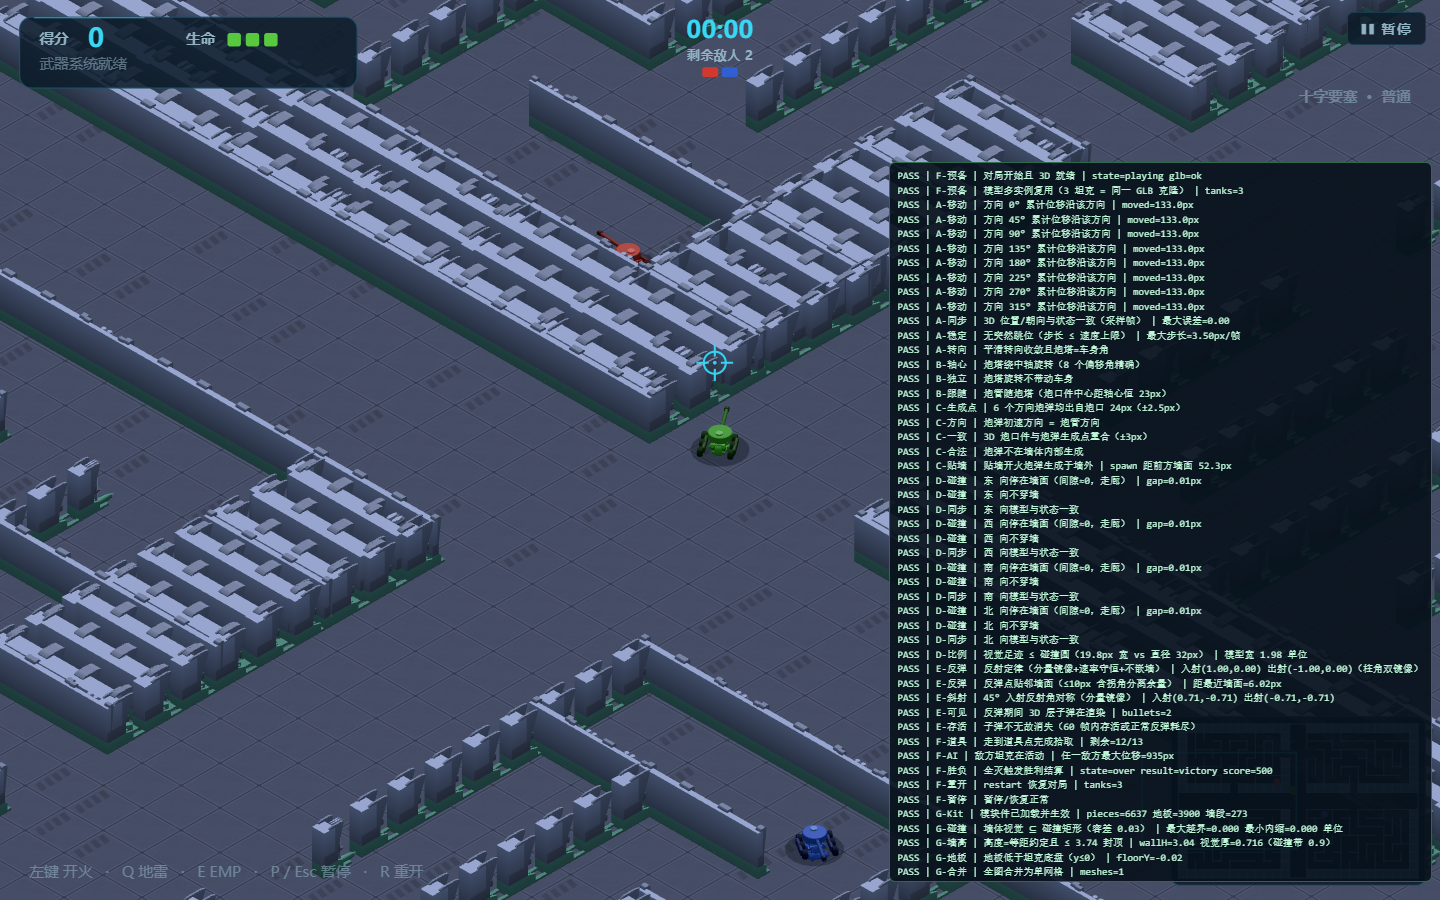
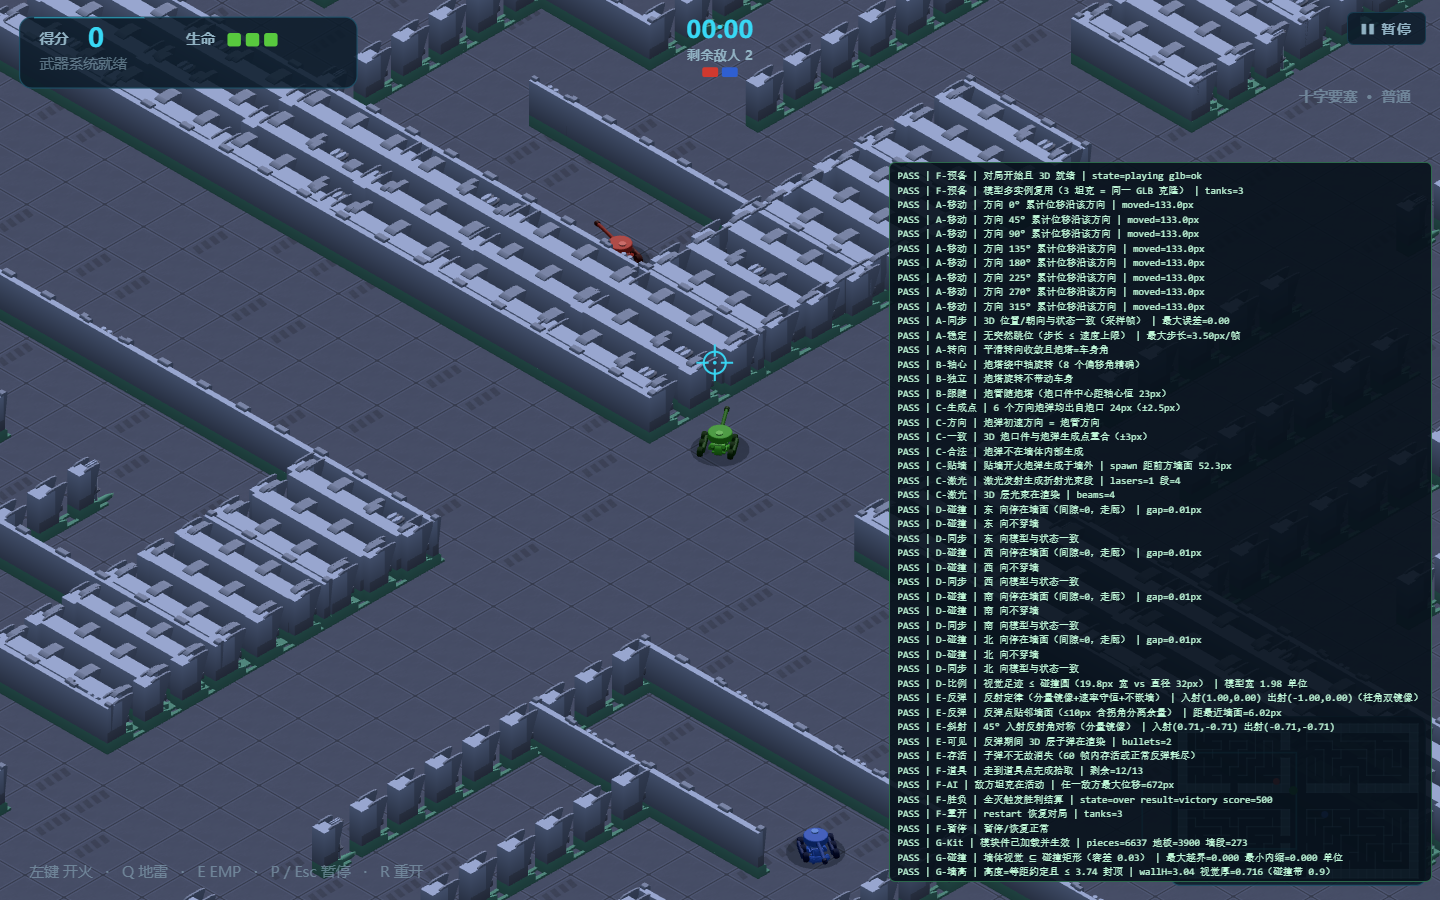
修复：激光道具无激光效果（用户实测反馈）——光束字段名对齐 + 命中端点闪光
根因：pickup.js Laser.segments 字段为 {x1,y1,x2,y2}，3D 渲染层误读 {x0,y0,x1,y1}
→ 全 undefined → 光束坐标 NaN 整条不可见。阶段 3 编写后从未实跑激光（验收摆位
甚至特意避开激光道具），故一直未暴露。

修复：字段对齐；光束加粗（0.34 单位）+ AdditiveBlending 发光质感；
每段终点新增命中闪光球（墙弹点/坦克命中反馈，随 life 淡出）。

防回归：C-激光 断言（发射生成折射段 + 3D 层渲染计数 report.lasers）；
新增 laser 摆位截图（integration-laser.png）。
验收：8 摆位（含 laser）+ 13/13 rollout + 69/69 + proto 3/3 全绿；
视觉核验：青蓝光束自炮口射出、末端命中闪光、无异常。

Changed region(s): [[0.6562, 0.5289, 1.0, 0.9956], [0.5312, 0.9022, 0.5938, 0.9644], [0.4062, 0.2489, 0.4375, 0.28]]

diff --git a/js/three-proto.js b/js/three-proto.js
@@ -433,8 +433,14 @@ import * as BufferGeometryUtils from 'three/addons/utils/BufferGeometryUtils.js'
       return m;
     });
     const laserPool = makePool(() => new THREE.Mesh(
-      new THREE.BoxGeometry(0.24, 0.24, 1),
-      new THREE.MeshBasicMaterial({ color: 0x5fd0ff, transparent: true, depthWrite: false })));
+      new THREE.BoxGeometry(0.34, 0.34, 1),
+      new THREE.MeshBasicMaterial({ color: 0x5fd0ff, transparent: true, depthWrite: false,
+        blending: THREE.AdditiveBlending })));
+    /* 激光端点命中闪光（墙弹点/坦克命中点反馈） */
+    const laserHitPool = makePool(() => new THREE.Mesh(
+      new THREE.SphereGeometry(0.42, 10, 8),
+      new THREE.MeshBasicMaterial({ color: 0x5fd0ff, transparent: true, depthWrite: false,
+        blending: THREE.AdditiveBlending })));
 
     /* 粒子：单个 Points 动态缓冲（数百粒子零 draw call 开销） */
     const MAX_P = 512;
@@ -690,23 +696,34 @@ import * as BufferGeometryUtils from 'three/addons/utils/BufferGeometryUtils.js'
         }
       }
 
-      /* 激光（分段光束，随 life 淡出） */
+      /* 激光：分段光束 + 端点命中闪光（字段名对齐 pickup.js 的 x1,y1,x2,y2），
+       * 随 life 淡出；命中坦克时 hitTank 有目标（伤害/爆炸由游戏逻辑走原特效管线） */
       laserPool.hideAll();
+      laserHitPool.hideAll();
+      let laserBeams = 0;
       if (!menu) {
         for (const ls of game.lasers) {
           const k = ls.life / ls.maxLife;
           for (const seg of ls.segments) {
+            const x0 = seg.x1 / PX, z0 = seg.y1 / PX, x1 = seg.x2 / PX, z1 = seg.y2 / PX;
+            const len = Math.hypot(x1 - x0, z1 - z0);
+            if (len < 0.01) continue;
             const m = laserPool.acquire();
-            const x0 = seg.x0 / PX, y0 = seg.y0 / PX, x1 = seg.x1 / PX, y1 = seg.y1 / PX;
-            const len = Math.hypot(x1 - x0, y1 - y0);
-            m.position.set((x0 + x1) / 2, 0.85, (y0 + y1) / 2);
+            m.position.set((x0 + x1) / 2, 0.85, (z0 + z1) / 2);
             m.scale.set(1, 1, len);
-            m.rotation.y = Math.atan2(x1 - x0, y1 - y0);
+            m.rotation.y = Math.atan2(x1 - x0, z1 - z0);
             m.material.color.set(ls.color);
             m.material.opacity = Math.min(1, k * 1.6);
+            const f = laserHitPool.acquire();
+            f.position.set(x1, 0.85, z1);
+            f.material.color.set(ls.color);
+            f.material.opacity = Math.min(1, k * 1.8);
+            f.scale.setScalar(0.55 + 0.5 * (1 - k));
+            laserBeams++;
           }
         }
       }
+      report.lasers = laserBeams;
 
       /* 特效（消费 game.effects 的世界坐标数据） */
       const fx = game.effects;

diff --git a/tests/integration-3d.page.js b/tests/integration-3d.page.js
@@ -271,6 +271,24 @@
           check('C-贴墙 | 贴墙开火炮弹生成于墙外（本图无贴墙点，跳过）', true, '');
         }
       }
+
+      /* ---------- C-激光：激光道具有可见光束（分段 + 命中端点） ---------- */
+      {
+        game.player.x = spot.x; game.player.y = spot.y; game.player.speed = 0;
+        game.player.angle = game.player.aimAngle = -0.35;
+        game.player.powerup = 'laser'; game.player.powerupShots = 1;
+        game.player.cooldown = 0;
+        game.bullets.length = 0; game.lasers.length = 0;
+        aimMouseAt(spot.x + Math.cos(-0.35) * 60, spot.y + Math.sin(-0.35) * 60);
+        game.update(1 / 60);
+        fireOne(-0.35);
+        game.render();
+        const segs = (game.lasers[0] && game.lasers[0].segments.length) || 0;
+        check('C-激光 | 激光发射生成折射光束段', game.lasers.length >= 1 && segs >= 1,
+          'lasers=' + game.lasers.length + ' 段=' + segs);
+        check('C-激光 | 3D 层光束在渲染', (P3.lasers || 0) >= 1, 'beams=' + P3.lasers);
+        game.player.powerup = null; game.player.powerupShots = 0;
+      }
     }
 
     /* ================= D 碰撞边界 ================= */
@@ -635,6 +653,14 @@
         aimMouseAt(p.x + Math.cos(-0.5) * 60, p.y + Math.sin(-0.5) * 60);
         game.update(1 / 60);
         fireOne(-0.5);
+      } else if (pose === 'laser') {
+        p.angle = p.aimAngle = -0.35;
+        aimMouseAt(p.x + Math.cos(-0.35) * 60, p.y + Math.sin(-0.35) * 60);
+        p.powerup = 'laser'; p.powerupShots = 1; p.cooldown = 0;
+        game.update(1 / 60);
+        fireOne(-0.35);
+        for (let s = 0; s < 4; s++) game.update(1 / 60);   // 光束寿命前段定格
+        p.powerup = null;
       } else if (pose === 'wall') {
         p.angle = p.aimAngle = 0;
         p.y = spot.y; p.x = game.maze.width - 9 - p.radius - 1.5;

diff --git a/tests/integration-check.js b/tests/integration-check.js
@@ -31,7 +31,7 @@ const tmp = path.join(root, 'node-tmp');
 fs.mkdirSync(tmp, { recursive: true });
 
 const SCENARIOS = [
-  { pose: 'overview' }, { pose: 'menu' }, { pose: 'move' }, { pose: 'turret' }, { pose: 'muzzle' }, { pose: 'wall' }, { pose: 'bounce' }
+  { pose: 'overview' }, { pose: 'menu' }, { pose: 'move' }, { pose: 'turret' }, { pose: 'muzzle' }, { pose: 'laser' }, { pose: 'wall' }, { pose: 'bounce' }
 ];
 
 function edge(args, tag) {
